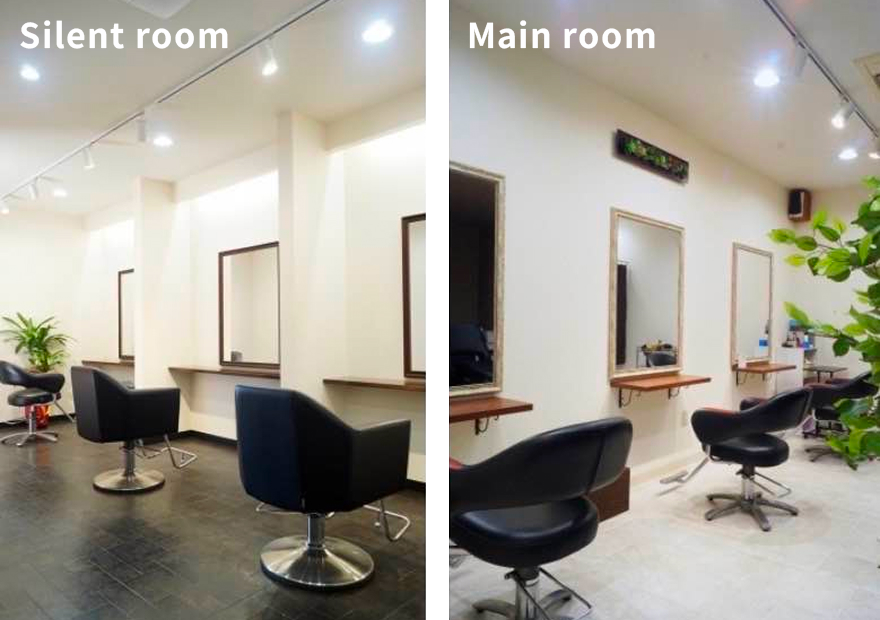
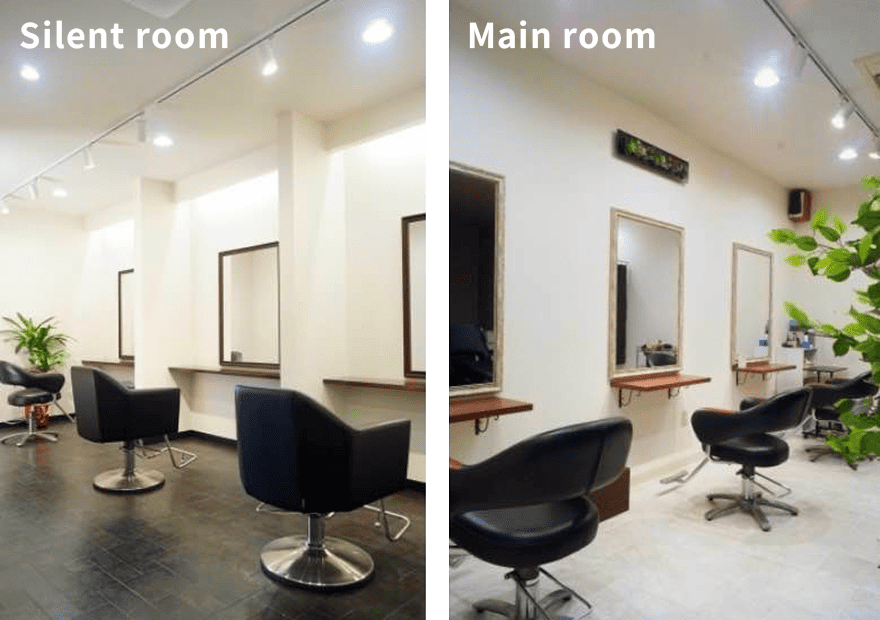
index、menu.htmlの修正。script.jsの修正。style.cssの修正。画像の圧縮。

diff --git a/index.html b/index.html
@@ -46,7 +46,7 @@
       </nav>
       <a href="https://beauty.hotpepper.jp/slnH000058847/" class="button header-button" data-kana="予約する" target="_blank">RESERVE</a>
       <button id="hamburger" class="hamburger" aria-label="メニューを開く">
-        <span>メニュー</span>
+        <span id="menulabel">メニュー</span>
       </button>
     </div>
   </header>
@@ -78,7 +78,7 @@
         <div>
           <h2 class="sub-title pc-sub-title" data-en="STYLIST">スタイリスト</h2>
           <div class="stylist-photo">
-            <img src="image/stylist-img.jpg" alt="河内屋美佳子の写真" width="346" height="342">
+            <img src="image/stylist-img.jpg" alt="河内屋美佳子の写真" width="346" height="342" loading="lazy">
           </div>
         </div>
         <div class="pc-grid-end">
@@ -122,7 +122,7 @@
             <div class="address-box">
               <p>宮崎県宮崎市村角町六反田386番地2</p>
               <a href="https://maps.app.goo.gl/XDo5cbi6uEZnHCb16" target="_blank" class="map-button">
-                <img src="image/icon-map.svg" alt="マップのアイコン" width="24" height="24">
+                <img src="image/icon-map.svg" alt="マップのアイコン" width="24" height="24" loading="lazy">
               </a>
             </div>
           </section>
@@ -143,11 +143,13 @@
             </ul>
           </section>
           <section class="access-box">
-            <!-- //TODO 支払い方法のところを確認する。 -->
             <h3 class="third-title">支払い方法</h3>
             <p>
-              Visa/Mastercard/JCB/PayPay<br>
-              <small>※店頭で利用可能なお支払い方法を記載しています。スマート支払いではご利用いただけない場合がございます。</small>
+              QRコード決済 (PayPayなど)<br>クレジットカード決済 (VISA/Mastercard/JCBなど)<br>交通系ICカード<br>
+              <small>
+                ※店頭で利用可能なお支払い方法の一部を記載しています。<br>
+                ※HOT PEPPER Beautyのスマート支払いではご利用いただけない場合がございます。
+              </small>
             </p>
           </section>
         </div>
@@ -180,7 +182,7 @@
     <div class="footer-section footer-inner">
       <div class="footer-logo">
         <a href="index.html">
-          <img src="image/logo.jpg" alt="Dear Silent Blaze Hair&Make" width="196" height="200">
+          <img src="image/logo.jpg" alt="Dear Silent Blaze Hair&Make" width="196" height="200" loading="lazy">
         </a>
       </div>
       <div class="footer-info">
@@ -211,7 +213,7 @@
       </nav>
       <div class="instagram-icon">
         <a href="https://www.instagram.com/blaze2004810/" target="_blank">
-          <img src="image/icon-instagram.svg" alt="インスタグラム" width="30" height="30">
+          <img src="image/icon-instagram.svg" alt="インスタグラム" width="30" height="30" loading="lazy">
         </a>
       </div>
     </div>

diff --git a/style.css b/style.css
@@ -150,14 +150,10 @@ p {
     font-size: 10px;
     padding: 40px 0 0;
   }
-/* TODO 文字のフォントを変えるか考える。 */
+  
   body.is-active .hamburger {
     background: url(image/icon-cut.svg) no-repeat 0 0 / contain;
   }
-
-  /* body.is-active .header-inner span::after {
-    content: "閉じる";
-  } */
 
   .global-nav {
     position: fixed;
@@ -187,7 +183,7 @@ p {
     flex-direction: column;
     padding: 15px 0;
   }
-/* TODO ハンバーガーメニューの中にdata-kanaでふりがなを入れた。確認する。 */
+
   .global-nav-link::before {
     content: attr(data-kana);
     font-family: "Shippori Mincho", serif;
@@ -207,9 +203,7 @@ p {
     background: rgba(0, 0, 0, 0.5);
     opacity: 0;
     visibility: hidden;
-    /* チェックしたらエラーだったので確認する。カンマがなかった。transition: opacity 0.3s visibility 0.3s;
-    あとハンバーガーメニューを閉じた時に背景の影をゆっくり切り替わる様にしたがあっているかを確認する。 */
-    transition: opacity 0.3s ease, visibility 0s 0.3s;
+    transition: opacity .3s ease, visibility 0s .3s;
     z-index: 140;
   }
 
@@ -222,8 +216,7 @@ p {
   body.is-active .overlay {
     opacity: 1;
     visibility: visible;
-    /* TODO こっちに visibility 0s 0s; はいらない？ */
-    transition: opacity 0.3s ease;
+    transition: opacity .3s ease;
   }
 
   .access-content {

diff --git a/script.js b/script.js
@@ -2,8 +2,13 @@ const
   menulinks = document.querySelectorAll('.global-nav-link'),
   hamburger = document.querySelector('#hamburger'),
   overlay = document.querySelector('#overlay'),
-  menuLabel = hamburger.querySelector('span');
-// TODO メニューと閉じるの切り替えを追加した、確認する。
+  menuLabel = document.querySelector('#menulabel');
+  
+const hamburgerClose = () => {
+  document.body.classList.remove('is-active');
+  menuLabel.textContent = 'メニュー';
+};
+
 hamburger.addEventListener('click', () => {
   document.body.classList.toggle('is-active');
   if (document.body.classList.contains('is-active')) {
@@ -13,16 +18,12 @@ hamburger.addEventListener('click', () => {
   }
 });
 
-overlay.addEventListener('click', () => {
-  document.body.classList.remove('is-active');
-  menuLabel.textContent = 'メニュー';
-});
+overlay.addEventListener('click', hamburgerClose);
 
 menulinks.forEach(link => {
   link.addEventListener('click', () => {
     if (document.body.classList.contains('is-active')) {
-      document.body.classList.remove('is-active');
-      menuLabel.textContent = 'メニュー';
+      hamburgerClose();
     }
   });
 });

diff --git a/menu.html b/menu.html
@@ -44,7 +44,7 @@
       </nav>
       <a href="https://beauty.hotpepper.jp/slnH000058847/" class="button header-button" data-kana="予約する" target="_blank">RESERVE</a>
       <button id="hamburger" class="hamburger" aria-label="メニューを開く">
-        <span>メニュー</span>
+        <span id="menulabel">メニュー</span>
       </button>
     </div>
   </header>
@@ -273,7 +273,7 @@
     <div class="footer-section footer-inner">
       <div class="footer-logo">
         <a href="index.html">
-          <img src="image/logo.jpg" alt="Dear Silent Blaze Hair&Make" width="196" height="200">
+          <img src="image/logo.jpg" alt="Dear Silent Blaze Hair&Make" width="196" height="200" loading="lazy">
         </a>
       </div>
       <div class="footer-info">
@@ -304,7 +304,7 @@
       </nav>
       <div class="instagram-icon">
         <a href="https://www.instagram.com/blaze2004810/" target="_blank">
-          <img src="image/icon-instagram.svg" alt="インスタグラム" width="30" height="30">
+          <img src="image/icon-instagram.svg" alt="インスタグラム" width="30" height="30" loading="lazy">
         </a>
       </div>
     </div>
